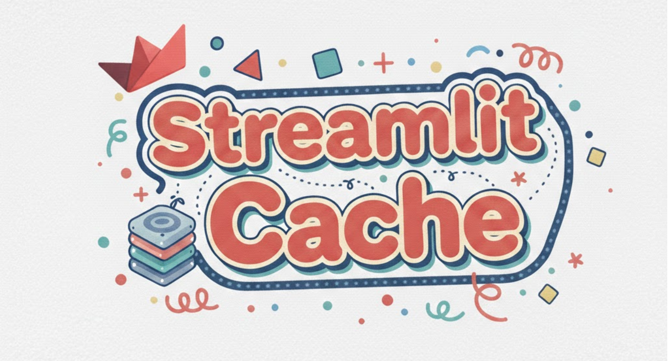
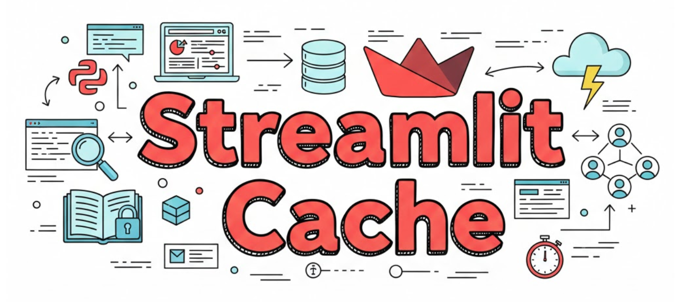
💄 style(header): 블로그 타이틀 변경 및 포스트 썸네일 수정
- 헤더 텍스트 변경 ("DMK 기술 블로그" → "DMK TECH BLOG")
- Streamlit Cache 및 RAG LLM 포스트의 썸네일 이미지를 외부 URL로 교체

diff --git a/layouts/partials/header.html b/layouts/partials/header.html
@@ -6,7 +6,7 @@
         <div class="w-8 h-8">
           <img src="{{ "images/dmk-logo.png" | relURL }}" alt="Logo" class="w-full h-full object-contain">
         </div>
-        <span class="text-xl font-bold tracking-tight text-gray-900 dark:text-gray-100">DMK 기술 블로그</span>
+        <span class="text-xl font-bold tracking-tight text-gray-900 dark:text-gray-100">DMK TECH BLOG</span>
       </a>
       <div class="flex items-center gap-4">
         <!-- Dark mode toggle -->

diff --git a/content/posts/20241030_rag-llm/index.md b/content/posts/20241030_rag-llm/index.md
@@ -3,7 +3,7 @@ title = '기존 LLM의 문제점과 RAG(Retrieval Augmented Generation)'
 date = 2024-10-30
 draft = false
 tags = ['RAG', 'LLM']
-image = '0_main.png'
+image = 'https://www.hyro.ai/wp-content/uploads/2023/07/RAG.png'
 slug = 'rag-llm'
 +++
 

diff --git a/content/posts/20240906_streamlit-cache/index.md b/content/posts/20240906_streamlit-cache/index.md
@@ -3,7 +3,7 @@ title = 'Streamlit Cache 활용 방법'
 date = 2024-09-06
 draft = false
 tags = ['STREAMLIT']
-image = '0_main.png'
+image = 'https://miro.medium.com/v2/resize:fit:1400/1*9F4yTGOTrN2EwE_EVQWNmg.png'
 slug = 'streamlit-cache'
 +++
 
